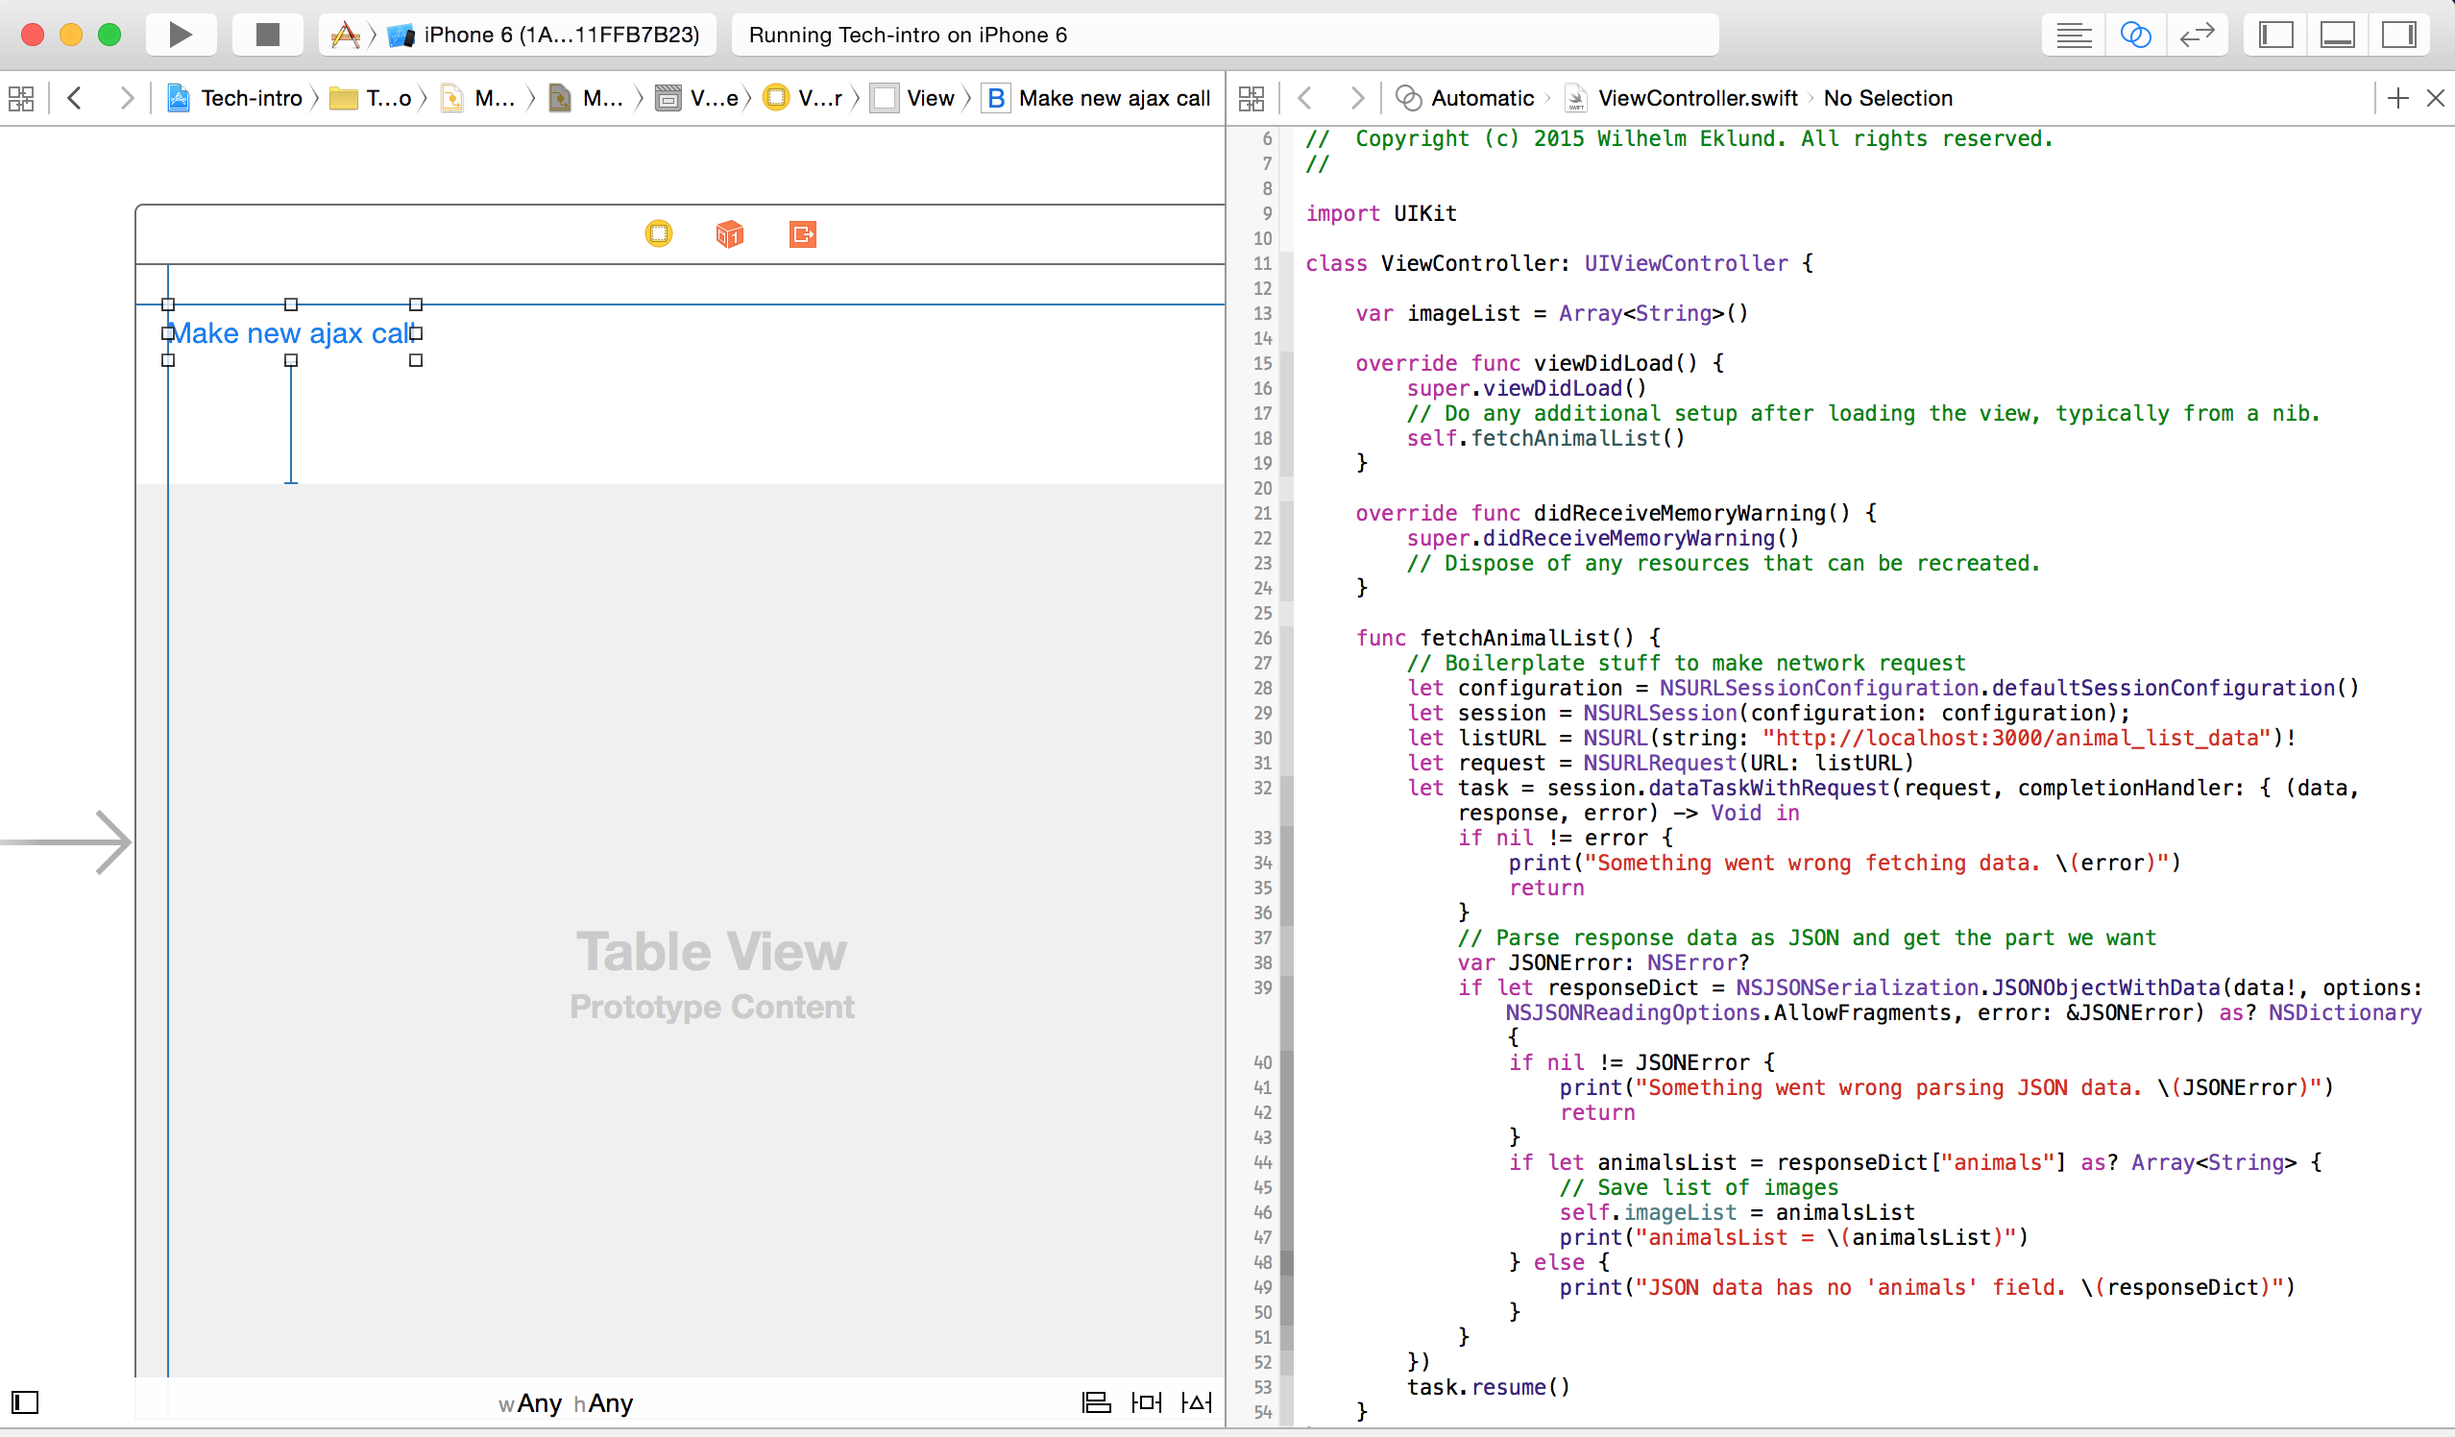
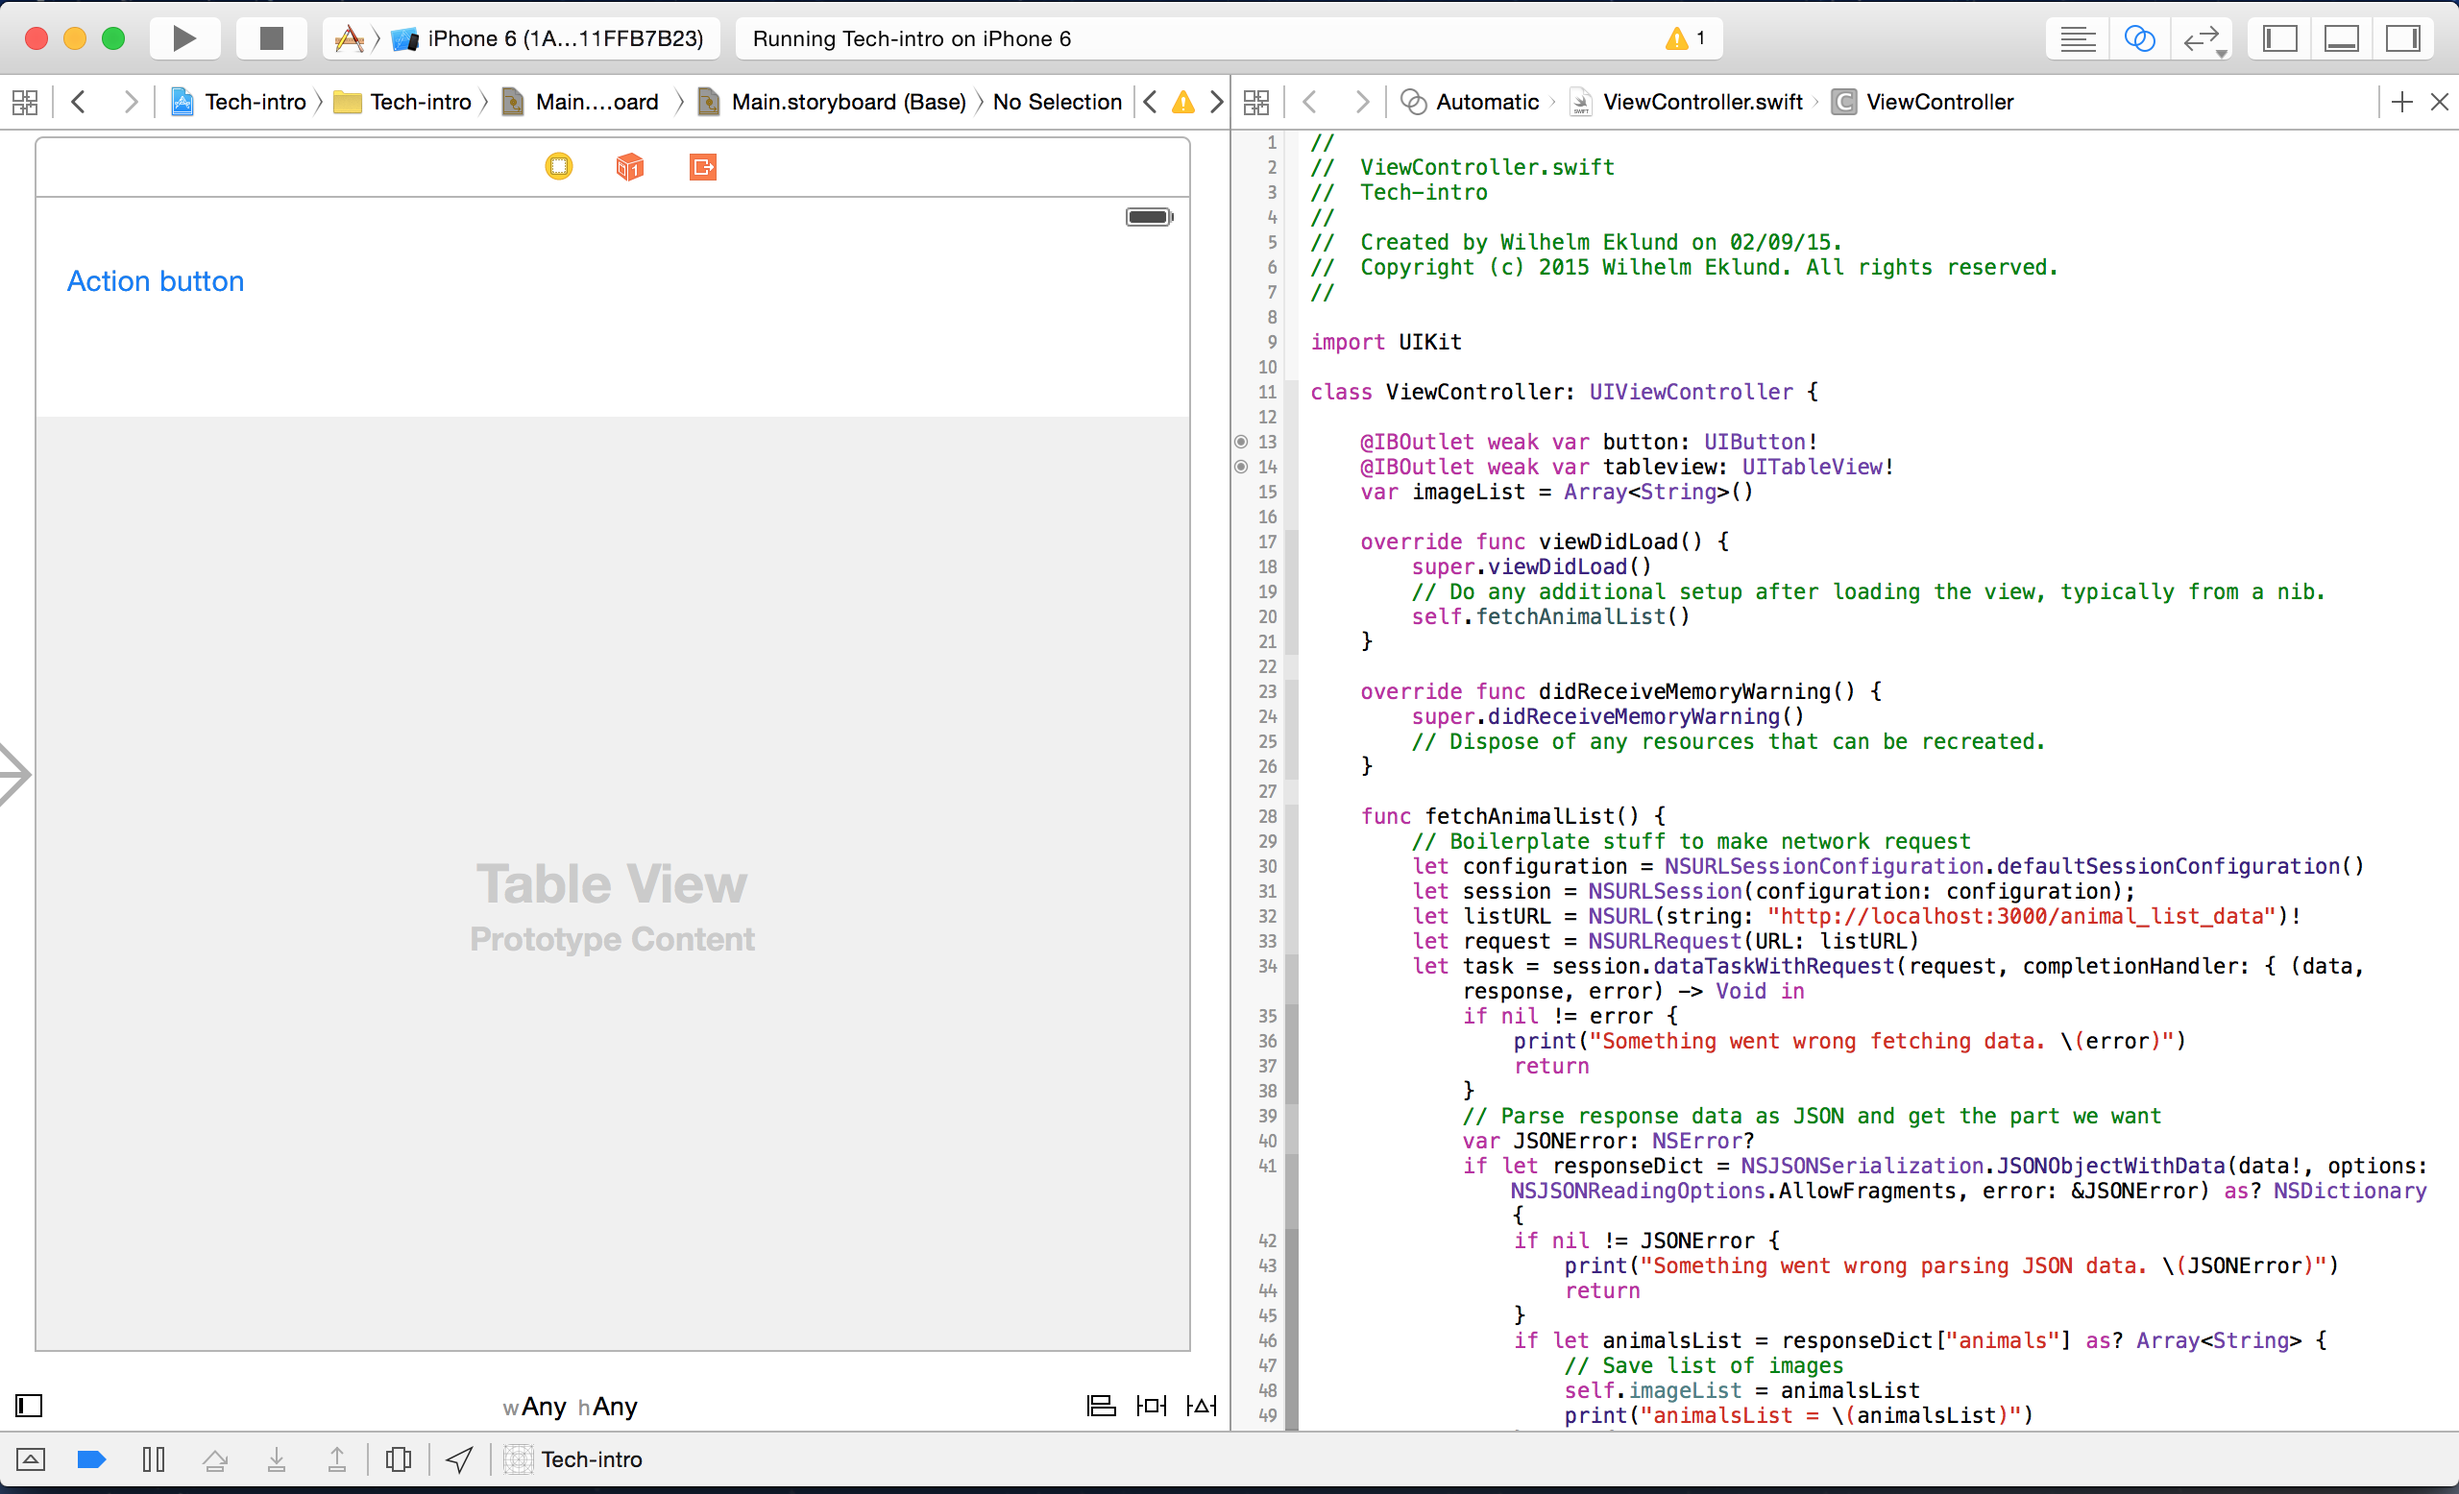
Connect tableview element

diff --git a/README.md b/README.md
@@ -320,3 +320,15 @@ Select 'Reset to suggested constraints'.
 
 ![Resolve auto layout](https://raw.githubusercontent.com/willeeklund/tech-intro-tutorial/master/images/storyboard2.png)
 
+Next bring up the Assistant editor.
+
+![Assistant editor](https://raw.githubusercontent.com/willeeklund/tech-intro-tutorial/master/images/assistant_editor.png)
+
+Mark the Table view editor on the left, then Control-drag into the right side.
+Name the element `tableview`.
+
+![Connect tableview](https://raw.githubusercontent.com/willeeklund/tech-intro-tutorial/master/images/connect_tableview.png)
+
+Not do the same with the button element and name it `button`.
+These two elements are now connected as properties of the `ViewController` class.
+
